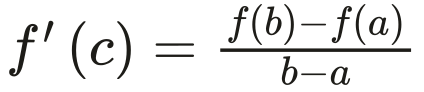
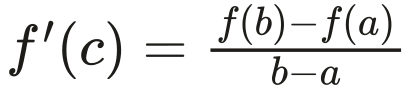
Add files via upload

diff --git a/eq/INDEX-wk5.md b/eq/INDEX-wk5.md
@@ -1,4 +1,4 @@
 | File | Mode | PNG px | Source |
 |---|---|---|---|
-| `wk5-010.png` | inline | 344x92 | `\(\scriptsize m = \frac{f \left(b\right) - f \left(a\right)}{b - a}\)` |
-| `wk5-020.png` | inline | 424x92 | `\(\scriptsize f' \left(c\right) = \frac{f \left(b\right) - f \left(a\right)}{b - a}\)` |
+| `wk5-010.png` | inline | 344x92 | `\(\scriptsize m = \frac{f(b) - f(a)}{b - a}\)` |
+| `wk5-020.png` | inline | 414x92 | `\(\scriptsize f'(c) = \frac{f(b) - f(a)}{b - a}\)` |

diff --git a/eq/INDEX-wk7.md b/eq/INDEX-wk7.md
@@ -1,4 +1,4 @@
 | File | Mode | PNG px | Source |
 |---|---|---|---|
-| `wk7-010.png` | inline | 663x87 | `\(\scriptsize \int_{a}^{b} f \left(x\right) d x = F \left(b\right) - F \left(a\right)\)` |
-| `wk7-020.png` | inline | 358x66 | `\(\scriptsize F' \left(x\right) = f \left(x\right)\)` |
+| `wk7-010.png` | block | 654x151 | `\[\scriptsize \int_{a}^{b} f(x) d x = F(b) - F(a)\]` |
+| `wk7-020.png` | inline | 339x66 | `\(\scriptsize F'(x) = f(x)\)` |

diff --git a/eq/INDEX-disc61-sol.md b/eq/INDEX-disc61-sol.md
@@ -1,3 +1,3 @@
 | File | Mode | PNG px | Source |
 |---|---|---|---|
-| `disc61-sol-010.png` | inline | 452x86 | `\(\scriptsize f \left(x\right) = - \frac{x^{3}}{3} + 4 x\)` |
+| `disc61-sol-010.png` | inline | 442x86 | `\(\scriptsize f(x) = - \frac{x^{3}}{3} + 4 x\)` |
